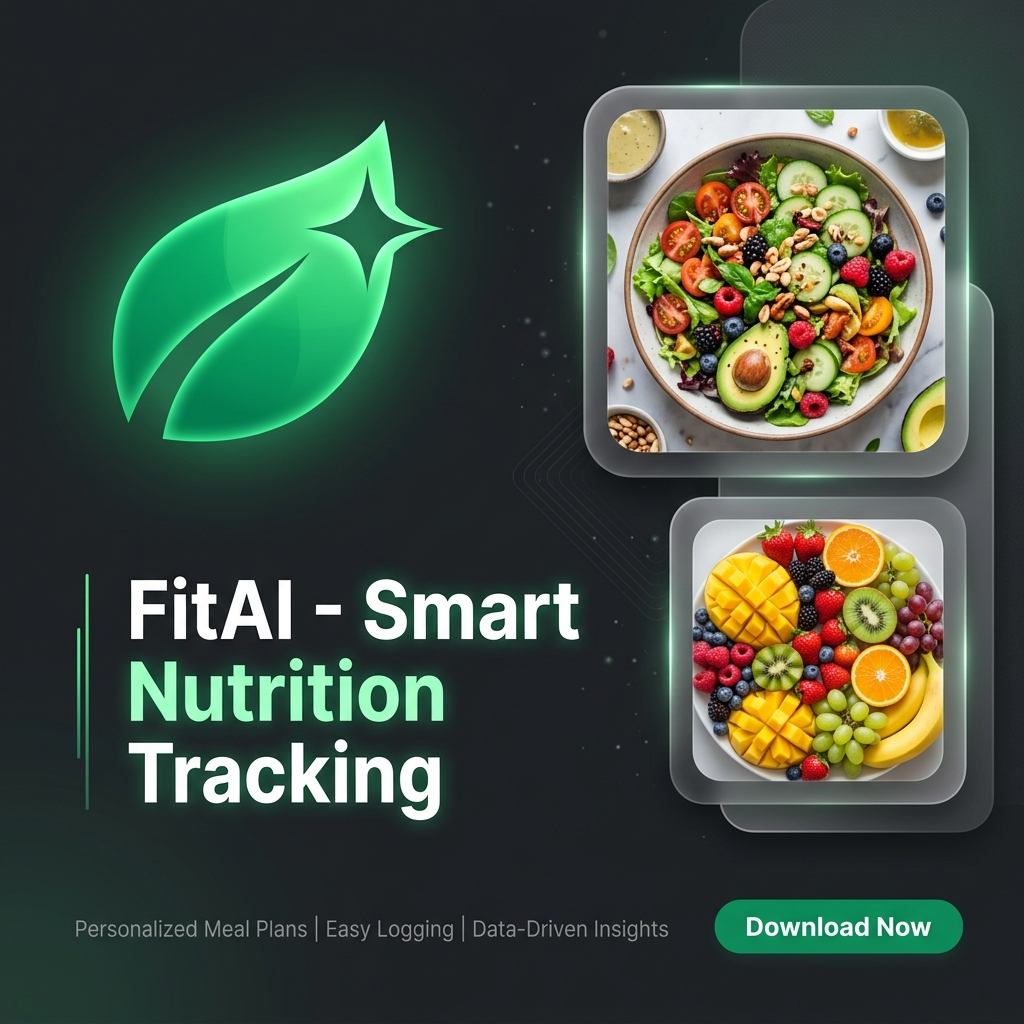
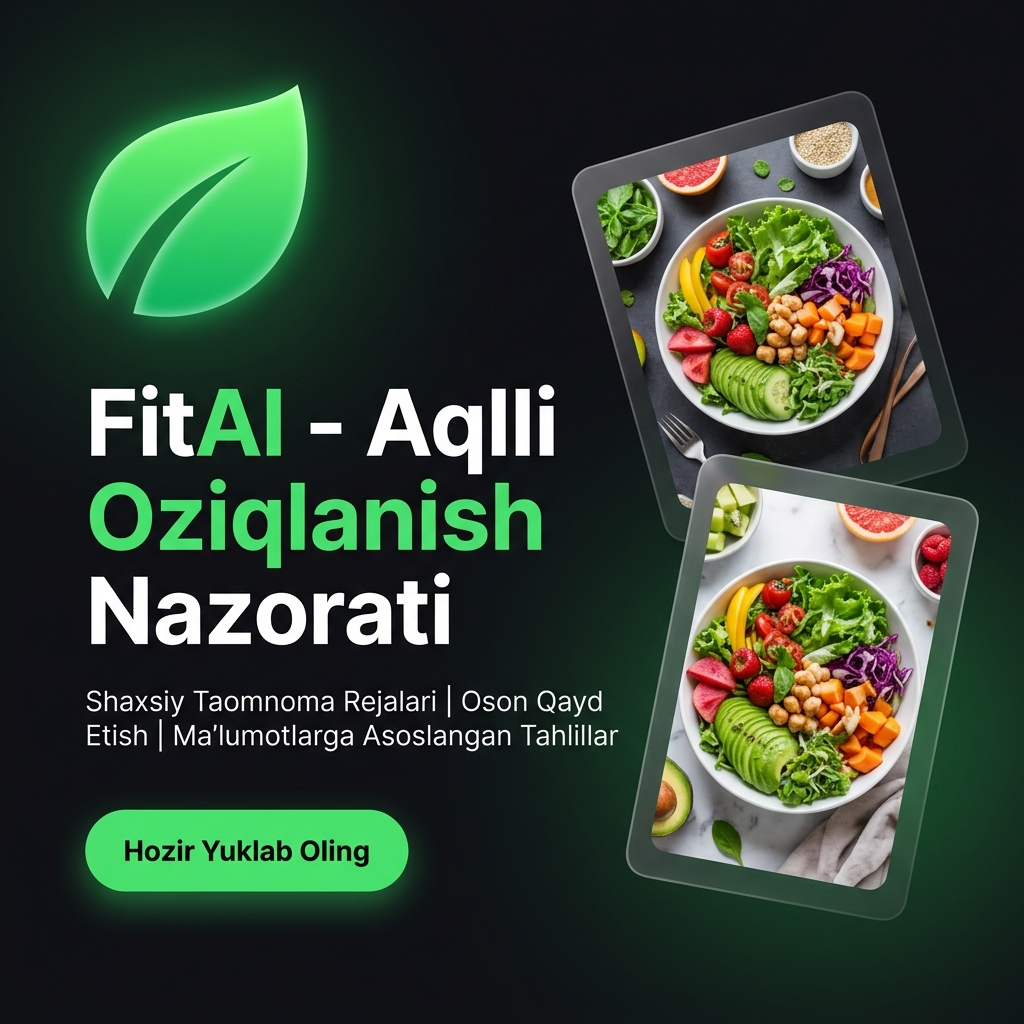
Fix onboarding flow, routing guards, and update Uzbek marketing image

diff --git a/apps/web/src/App.tsx b/apps/web/src/App.tsx
@@ -112,6 +112,10 @@ export function App() {
     return () => subscription.unsubscribe();
   }, []);
 
+  const userId = useAuth((s) => s.userId);
+  const hasOnboarded = usePrefs((s) => s.hasOnboarded);
+  const hasCompletedQuiz = useProfile((s) => s.hasCompletedQuiz);
+
   return (
     <>
       {!isOnline && (
@@ -128,50 +132,68 @@ export function App() {
       )}
       <Suspense fallback={<div style={{ flex: 1, display: 'flex', alignItems: 'center', justifyContent: 'center', height: '100vh', background: FIT.bg, color: FIT.textMuted, fontWeight: 700 }}>FIT AI...</div>}>
         <Routes key={primaryColor}>
-          {/* Main tabs */}
-          <Route path="/" element={<HomeScreen />} />
-          <Route path="/diary" element={<DiaryScreen />} />
-          <Route path="/stats" element={<StatsScreen />} />
-          <Route path="/profile" element={<ProfileScreen />} />
+          {!userId ? (
+            <>
+              <Route path="/splash" element={<SplashScreen />} />
+              <Route path="/onboarding/:step" element={<OnboardingStepRoute />} />
+              <Route path="/login" element={<LoginScreen />} />
+              <Route path="/register" element={<RegisterScreen />} />
+              <Route path="/forgot" element={<ForgotScreen />} />
+              <Route path="/reset-password" element={<ResetPasswordScreen />} />
+              <Route path="*" element={<Navigate to={hasOnboarded ? "/login" : "/splash"} replace />} />
+            </>
+          ) : !hasCompletedQuiz ? (
+            <>
+              <Route path="/quiz/:step" element={<QuizScreen />} />
+              <Route path="*" element={<Navigate to="/quiz/1" replace />} />
+            </>
+          ) : (
+            <>
+              {/* Main tabs */}
+              <Route path="/" element={<HomeScreen />} />
+              <Route path="/diary" element={<DiaryScreen />} />
+              <Route path="/stats" element={<StatsScreen />} />
+              <Route path="/profile" element={<ProfileScreen />} />
 
-          {/* Quick-log flow */}
-          <Route path="/add" element={<FabMenu />} />
-          <Route path="/search" element={<SearchScreen />} />
-          <Route path="/composer" element={<ComposerScreen />} />
-          <Route path="/barcode" element={<BarcodeScreen />} />
-          <Route path="/manual" element={<ManualScreen />} />
-          <Route path="/food/:id" element={<FoodDetailScreen />} />
+              {/* Quick-log flow */}
+              <Route path="/add" element={<FabMenu />} />
+              <Route path="/search" element={<SearchScreen />} />
+              <Route path="/composer" element={<ComposerScreen />} />
+              <Route path="/barcode" element={<BarcodeScreen />} />
+              <Route path="/manual" element={<ManualScreen />} />
+              <Route path="/food/:id" element={<FoodDetailScreen />} />
 
-          {/* Nutrition panels */}
-          <Route path="/micro" element={<MicroScreen />} />
-          <Route path="/deficiency" element={<DeficiencyScreen />} />
-          <Route path="/consequences" element={<ConsequencesScreen />} />
+              {/* Nutrition panels */}
+              <Route path="/micro" element={<MicroScreen />} />
+              <Route path="/deficiency" element={<DeficiencyScreen />} />
+              <Route path="/consequences" element={<ConsequencesScreen />} />
 
-          {/* Gamification + reports */}
-          <Route path="/achieve" element={<AchieveScreen />} />
-          <Route path="/report" element={<ReportScreen />} />
+              {/* Gamification + reports */}
+              <Route path="/achieve" element={<AchieveScreen />} />
+              <Route path="/report" element={<ReportScreen />} />
 
-          {/* Trackers */}
-          <Route path="/water" element={<WaterScreen />} />
-          <Route path="/weight" element={<WeightScreen />} />
-          <Route path="/steps-input" element={<Navigate to="/sport" replace />} />
-          <Route path="/sport" element={<SportScreen />} />
+              {/* Trackers */}
+              <Route path="/water" element={<WaterScreen />} />
+              <Route path="/weight" element={<WeightScreen />} />
+              <Route path="/steps-input" element={<Navigate to="/sport" replace />} />
+              <Route path="/sport" element={<SportScreen />} />
 
-          {/* Auth + onboarding */}
-          <Route path="/splash" element={<SplashScreen />} />
-          <Route path="/onboarding/:step" element={<OnboardingStepRoute />} />
-          <Route path="/login" element={<LoginScreen />} />
-          <Route path="/register" element={<RegisterScreen />} />
-          <Route path="/forgot" element={<ForgotScreen />} />
-          <Route path="/reset-password" element={<ResetPasswordScreen />} />
-          <Route path="/quiz/:step" element={<QuizScreen />} />
+              {/* Onboarding / Quiz can be re-accessed if needed, or redirect to home */}
+              <Route path="/quiz/:step" element={<QuizScreen />} />
+              
+              {/* Settings */}
+              <Route path="/lang" element={<LangScreen />} />
+              <Route path="/theme" element={<ThemeScreen />} />
+              <Route path="/perms" element={<PermsScreen />} />
 
-          {/* Settings */}
-          <Route path="/lang" element={<LangScreen />} />
-          <Route path="/theme" element={<ThemeScreen />} />
-          <Route path="/perms" element={<PermsScreen />} />
+              {/* Auth routes when logged in should redirect to home */}
+              <Route path="/login" element={<Navigate to="/" replace />} />
+              <Route path="/register" element={<Navigate to="/" replace />} />
+              <Route path="/splash" element={<Navigate to="/" replace />} />
 
-          <Route path="*" element={<Navigate to="/" replace />} />
+              <Route path="*" element={<Navigate to="/" replace />} />
+            </>
+          )}
         </Routes>
       </Suspense>
       <TweaksPanel />

diff --git a/apps/web/src/stores/profile.ts b/apps/web/src/stores/profile.ts
@@ -4,6 +4,7 @@ import { supabase } from '@/lib/supabase';
 import type { Profile, Goal, ActivityLevel, Gender } from '@fit/shared-types';
 
 interface ProfileState extends Profile {
+  hasCompletedQuiz: boolean;
   updateProfile: (p: Partial<ProfileState>) => void;
   pullFromSupabase: () => Promise<void>;
   pushToSupabase: () => Promise<void>;
@@ -13,6 +14,7 @@ interface ProfileState extends Profile {
 export const useProfile = create<ProfileState>()(
   persist(
     (set, get) => ({
+      hasCompletedQuiz: false,
       name: '',
       email: '',
       gender: 'male',
@@ -63,6 +65,7 @@ export const useProfile = create<ProfileState>()(
             weight: Number(data.weight) || get().weight,
             goal: (data.goal as any) || get().goal,
             activityLevel: (data.activity_level as any) || get().activityLevel,
+            hasCompletedQuiz: true,
           });
         }
       },
@@ -87,6 +90,7 @@ export const useProfile = create<ProfileState>()(
 
       reset: () => {
         set({
+          hasCompletedQuiz: false,
           name: '',
           email: '',
           gender: 'male',

diff --git a/apps/web/src/screens/Onboarding.tsx b/apps/web/src/screens/Onboarding.tsx
@@ -57,6 +57,13 @@ export function OnboardingScreen({ step }: SlideProps) {
   const dark = usePrefs((s) => s.theme === 'dark');
   const navigate = useNavigate();
 
+  const setHasOnboarded = usePrefs((s) => s.setHasOnboarded);
+
+  const handleFinish = () => {
+    setHasOnboarded(true);
+    navigate('/register');
+  };
+
   return (
     <Phone dark={dark}>
       <TopBar
@@ -64,7 +71,7 @@ export function OnboardingScreen({ step }: SlideProps) {
         right={
           <button
             type="button"
-            onClick={() => navigate('/register')}
+            onClick={handleFinish}
             style={{
               fontSize: 14, color: FIT.textMuted, fontWeight: 600,
               paddingRight: 8, background: 'none', border: 'none', cursor: 'pointer',
@@ -135,7 +142,7 @@ export function OnboardingScreen({ step }: SlideProps) {
           size="lg"
           full
           onClick={() => {
-            if (step === 3) navigate('/register');
+            if (step === 3) handleFinish();
             else navigate(`/onboarding/${step + 1}`);
           }}
         >

diff --git a/apps/web/src/stores/prefs.ts b/apps/web/src/stores/prefs.ts
@@ -27,9 +27,11 @@ interface PrefsState {
   lang: Lang;
   theme: Theme;
   primaryColor: string;
+  hasOnboarded: boolean;
   setLang: (lang: Lang) => void;
   setTheme: (theme: Theme) => void;
   setPrimaryColor: (color: string) => void;
+  setHasOnboarded: (val: boolean) => void;
 }
 
 export const usePrefs = create<PrefsState>()(
@@ -38,9 +40,11 @@ export const usePrefs = create<PrefsState>()(
       lang: 'uz',
       theme: 'light',
       primaryColor: DEFAULT_PRIMARY,
+      hasOnboarded: false,
       setLang: (lang) => set({ lang }),
       setTheme: (theme) => set({ theme }),
       setPrimaryColor: (primaryColor) => set({ primaryColor }),
+      setHasOnboarded: (hasOnboarded) => set({ hasOnboarded }),
     }),
     { name: 'fit-prefs' },
   ),

diff --git a/apps/web/src/screens/Quiz.tsx b/apps/web/src/screens/Quiz.tsx
@@ -51,7 +51,16 @@ export function QuizScreen() {
   const navigate = useNavigate();
   const stepNum = Math.max(1, Math.min(6, Number(step)));
 
-  const next = () => navigate(stepNum === 6 ? '/' : `/quiz/${stepNum + 1}`);
+  const setProfile = useProfile((s) => s.updateProfile);
+
+  const next = () => {
+    if (stepNum === 6) {
+      setProfile({ hasCompletedQuiz: true });
+      navigate('/');
+    } else {
+      navigate(`/quiz/${stepNum + 1}`);
+    }
+  };
   const back = () => (stepNum === 1 ? navigate('/register') : navigate(`/quiz/${stepNum - 1}`));
 
   return (
